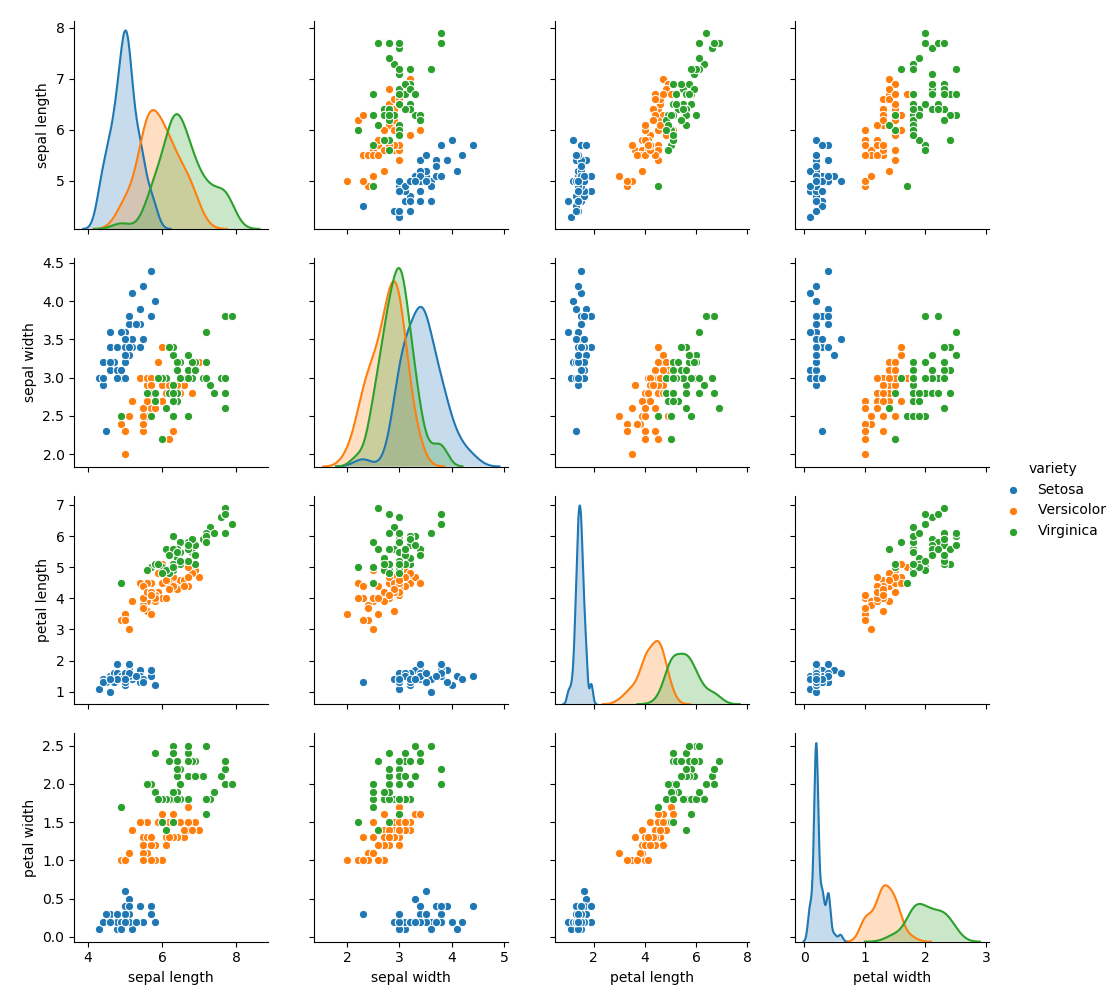
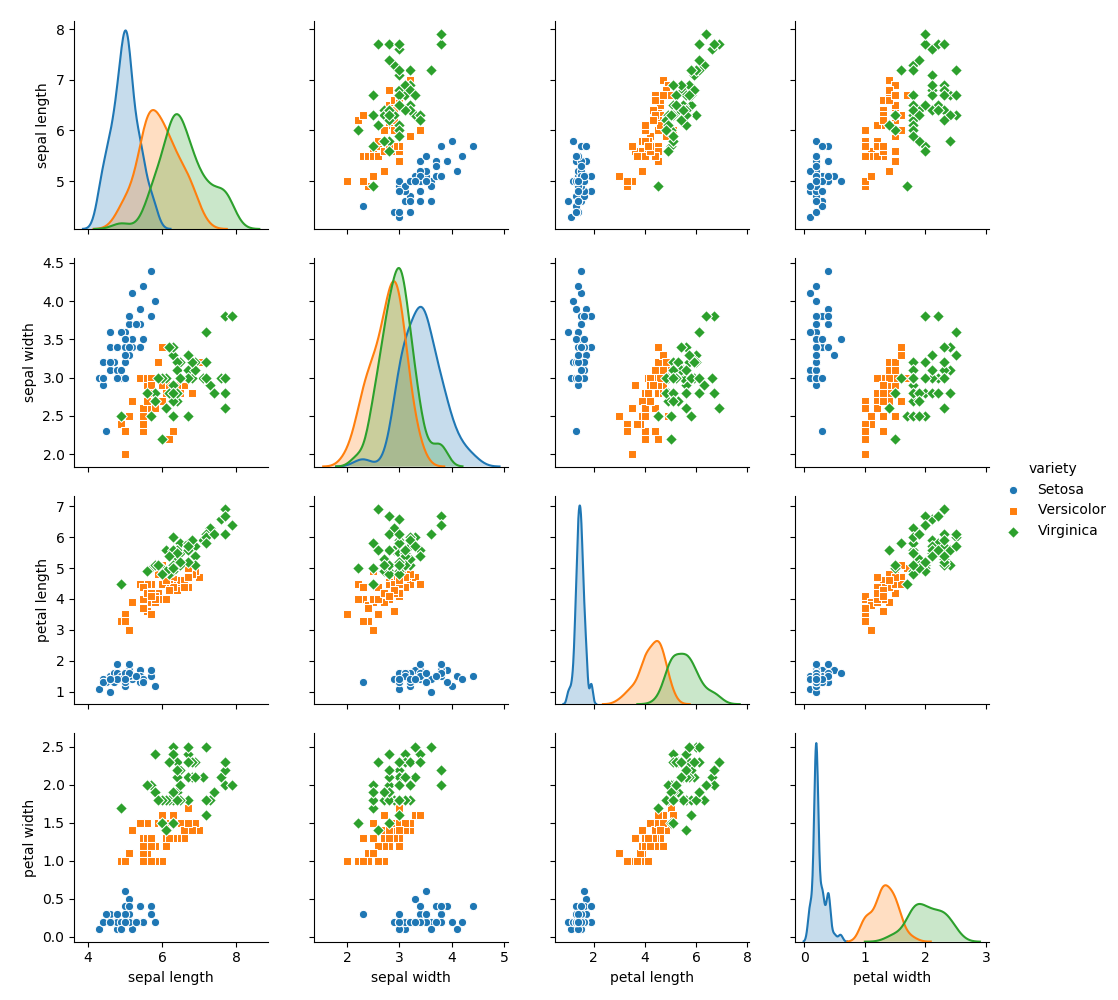
Updated Pairplot, added marker types. Added regression plot. added summary.csv

diff --git a/analysis.py b/analysis.py
@@ -14,6 +14,8 @@ df = pd.read_csv("iris_data_set.csv")
 
 df.describe(include="all").to_csv("summary.txt", sep=' ')
 
+df.describe(include="all").to_csv("summary.csv")
+
 plt.hist(df["sepal length"], color="skyblue")
 plt.title("sepal length")
 plt.xlabel("length in cm")
@@ -42,6 +44,10 @@ plt.ylabel("Number of flowers")
 plt.savefig("petal_width.png")
 plt.clf()
 
-sns.pairplot(df, hue="variety")
-plt.savefig("scatterplot_matrix")
+g = sns.pairplot(df, hue="variety", markers=["o", "s", "D"])
+plt.savefig("scatterplot_matrix.png")
+
+g = sns.pairplot(df, kind="reg")
+plt.savefig("scatterplot_matrix_regression.png")
+
 
